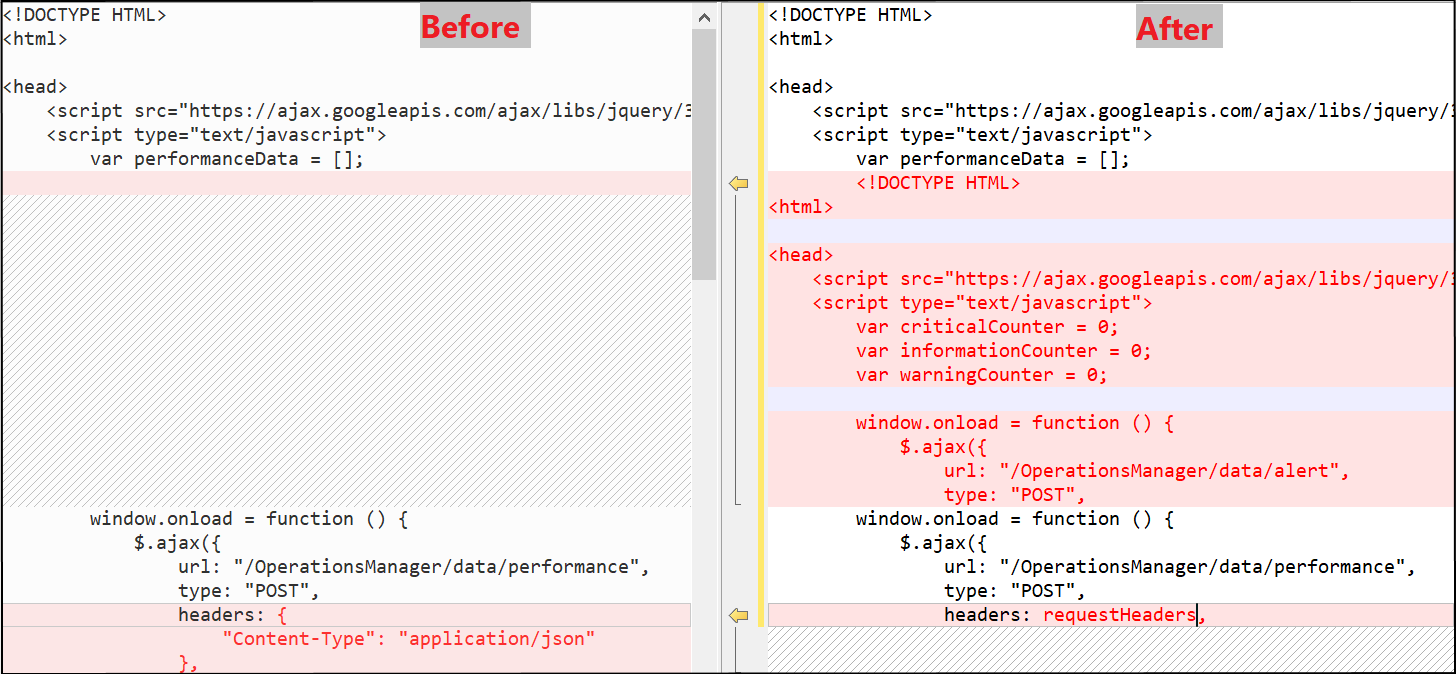
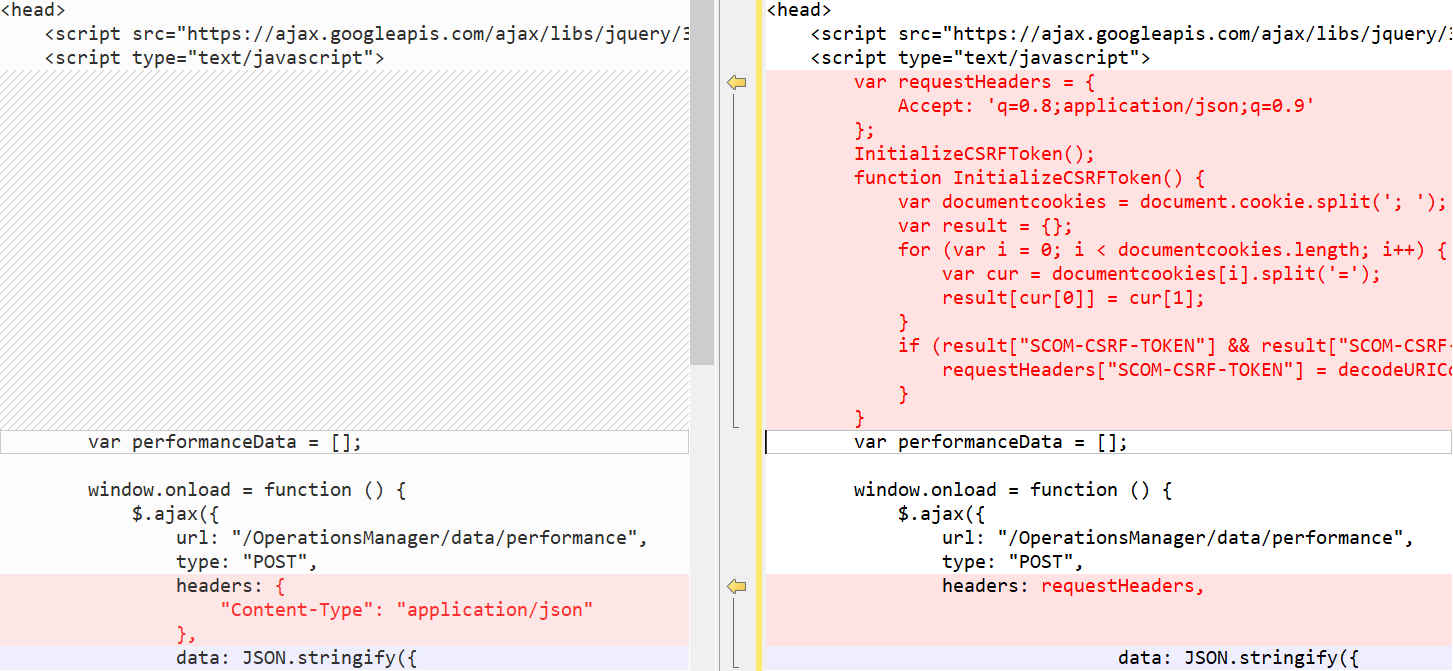
updated documents and images

diff --git a/index.md b/index.md
@@ -1,15 +1,15 @@
 ---
-ms.assetid: 
 title: System Center Operations Manager REST API Reference
 description: The system requirements article provides general performance and scalability guidance for consideration as part of your design planning of Operations Manager.  
 author: mgoedtel
 ms.author: magoedte
 manager: carmonm
-ms.date: 02/07/2018
+ms.date: 04/22/2020
 ms.custom: na
 ms.prod: system-center-2016
 ms.technology: operations-manager
 ms.topic: reference
+ms.assetid: b76911fa-1f5f-4a6f-864c-d0ba4adf2061
 ---
 
 # System Center Operations Manager REST API Reference
@@ -24,6 +24,7 @@ The new HTML5-based dashboards includes support for a Custom widget that execute
 > Operations Manager 2019 UR1 supports Cross-Site Request Forgery (CSRF) tokens to prevent CSRF attacks. If you are using Operations Manager 2019 UR1, you must initialize the CSRF token. HTML scripts do not work if the CSRF tokens are not initialized.
 
 ## Initialize the CSRF token
+
 Required action, applicable for Operations Manager 2019 UR1.
 
 1. In the HTML header of the dashboard, add the following code:
@@ -45,20 +46,22 @@ Required action, applicable for Operations Manager 2019 UR1.
             }
         }
 ```
-2. In the **onload** function, change the header value to **requestHeaders**.
 
-### Example:
+1. In the **onload** function, change the header value to **requestHeaders**.
+
+**Example:**
 
 ![Initialize the CSRF token example](./Media/index/116854.png)
 
 ## Examples
+
 The following examples demonstrate how to make calls to the Operations Manager REST API with the Custom widget.  
 
 ### Bar chart
+
 The following HTML code demonstrates rendering a bar chart with alert data.
 
-```
-<!DOCTYPE HTML>
+```<!DOCTYPE HTML>
 <html>
 
 <head>
@@ -130,10 +133,10 @@ The following HTML code demonstrates rendering a bar chart with alert data.
 ```
 
 ### Pie chart
+
 The following HTML code demonstrates rendering a pie chart with alert data.
 
-```
-<!DOCTYPE HTML>
+```<!DOCTYPE HTML>
 <html>
 
 <head>
@@ -212,10 +215,10 @@ The following HTML code demonstrates rendering a pie chart with alert data.
 ```
 
 ### 3D Pie chart
+
 The following HTML code demonstrates rendering a 3D pie chart with alert data.
 
-```
-<!DOCTYPE HTML>
+```<!DOCTYPE HTML>
 <html>
 
 <head>
@@ -319,10 +322,10 @@ The following HTML code demonstrates rendering a 3D pie chart with alert data.
 ```
 
 ### Donut chart
+
 The following HTML code demonstrates rendering a donut chart with alert data.
 
-```
-<!DOCTYPE HTML>
+```<!DOCTYPE HTML>
 <html>
 
 <head>
@@ -376,12 +379,12 @@ animationEnabled: true,
                     data: [
                         {
                             type: "doughnut",
-                indexLabelFontFamily: "Garamond",       
+                indexLabelFontFamily: "Garamond",
                 indexLabelFontSize: 20,
                 startAngle:0,
-                indexLabelFontColor: "dimgrey",       
-                indexLabelLineColor: "darkgrey", 
-                toolTipContent: "{y} %",         
+                indexLabelFontColor: "dimgrey",
+                indexLabelLineColor: "darkgrey",
+                toolTipContent: "{y} %",
                             dataPoints: [
                                 { y: criticalCounter, indexLabel: "Critical" },
                                 { y: warningCounter, indexLabel: "Warning" },
@@ -405,10 +408,10 @@ animationEnabled: true,
 ```
 
 ### 3D Donut chart
+
 The following HTML code demonstrates rendering a 3D donut chart with alert data.
 
-```
-<!DOCTYPE HTML>
+```<!DOCTYPE HTML>
 <html>
 
 <head>
@@ -500,11 +503,11 @@ The following HTML code demonstrates rendering a 3D donut chart with alert data.
 </html>
 ```
 
-### Combination chart 
+### Combination chart
+
 The following HTML code demonstrates creating a Combination chart to display alerts in a pie and spline chart.
 
-```
-<!DOCTYPE HTML>
+```<!DOCTYPE HTML>
 <html>
 
 <head>
@@ -629,4 +632,3 @@ var totalCounter =0;
 
 </html>
 ```
-

diff --git a/docs-ref-conceptual/operationsmanager/index.md b/docs-ref-conceptual/operationsmanager/index.md
@@ -4,11 +4,12 @@ description: This article describes the System Center Operations Manager REST AP
 author: mgoedtel
 ms.author: magoedte
 manager: carmonm
-ms.date: 04/26/2018
+ms.date: 04/22/2020
 ms.custom: na
 ms.prod: system-center-2016
 ms.technology: operations-manager
 ms.topic: reference
+ms.assetid: bb4bd81c-439c-479d-a045-dd5653812dff
 ---
 
 # Operations Manager REST API Reference
@@ -19,6 +20,7 @@ System Center Operations Manager provides flexible and cost-effective infrastruc
 > Operations Manager 2019 UR1 supports Cross-Site Request Forgery (CSRF) tokens to prevent CSRF attacks. If you are using Operations manager 2019 UR1, you must initialize the CSRF token. HTML scripts do not work if the CSRF tokens are not initialized.
 
 ## Initialize the CSRF token
+
 Required action, applicable for Operations Manager 2019 UR1.
 
 1. In the HTML header of the dashboard, add the following code:
@@ -40,8 +42,9 @@ Required action, applicable for Operations Manager 2019 UR1.
             }
         }
 ```
-2. In the **onload** function, change the header value to **requestHeaders**.
 
-### Example:
+1. In the **onload** function, change the header value to **requestHeaders**.
+
+**Example:**
 
 ![Initialize the CSRF token example](./Media/index/116854.png)
